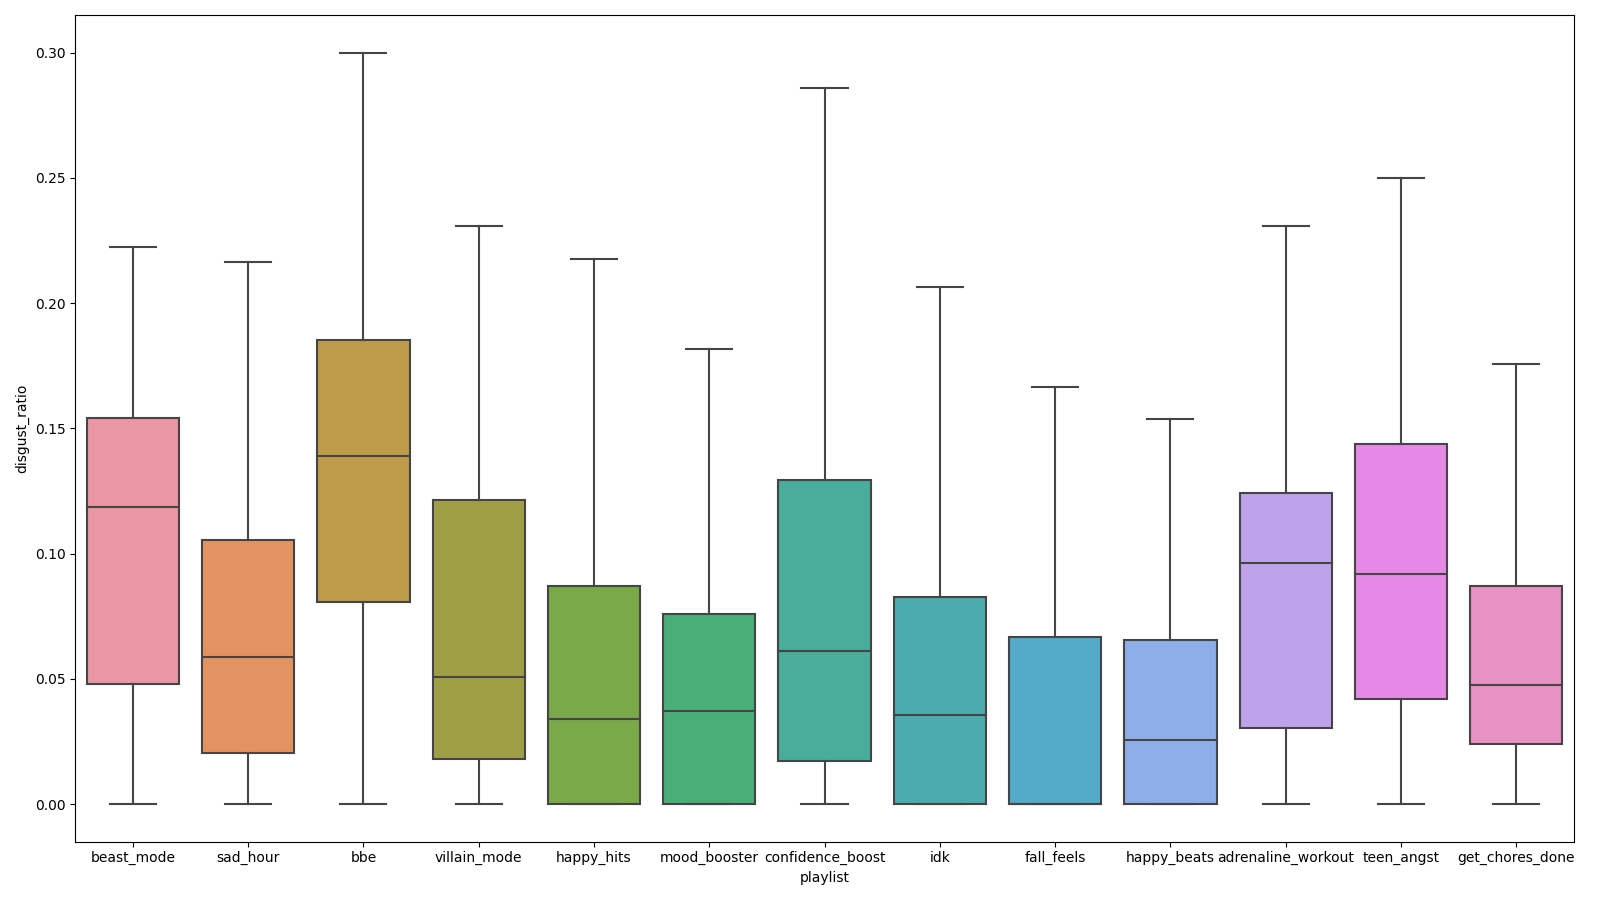
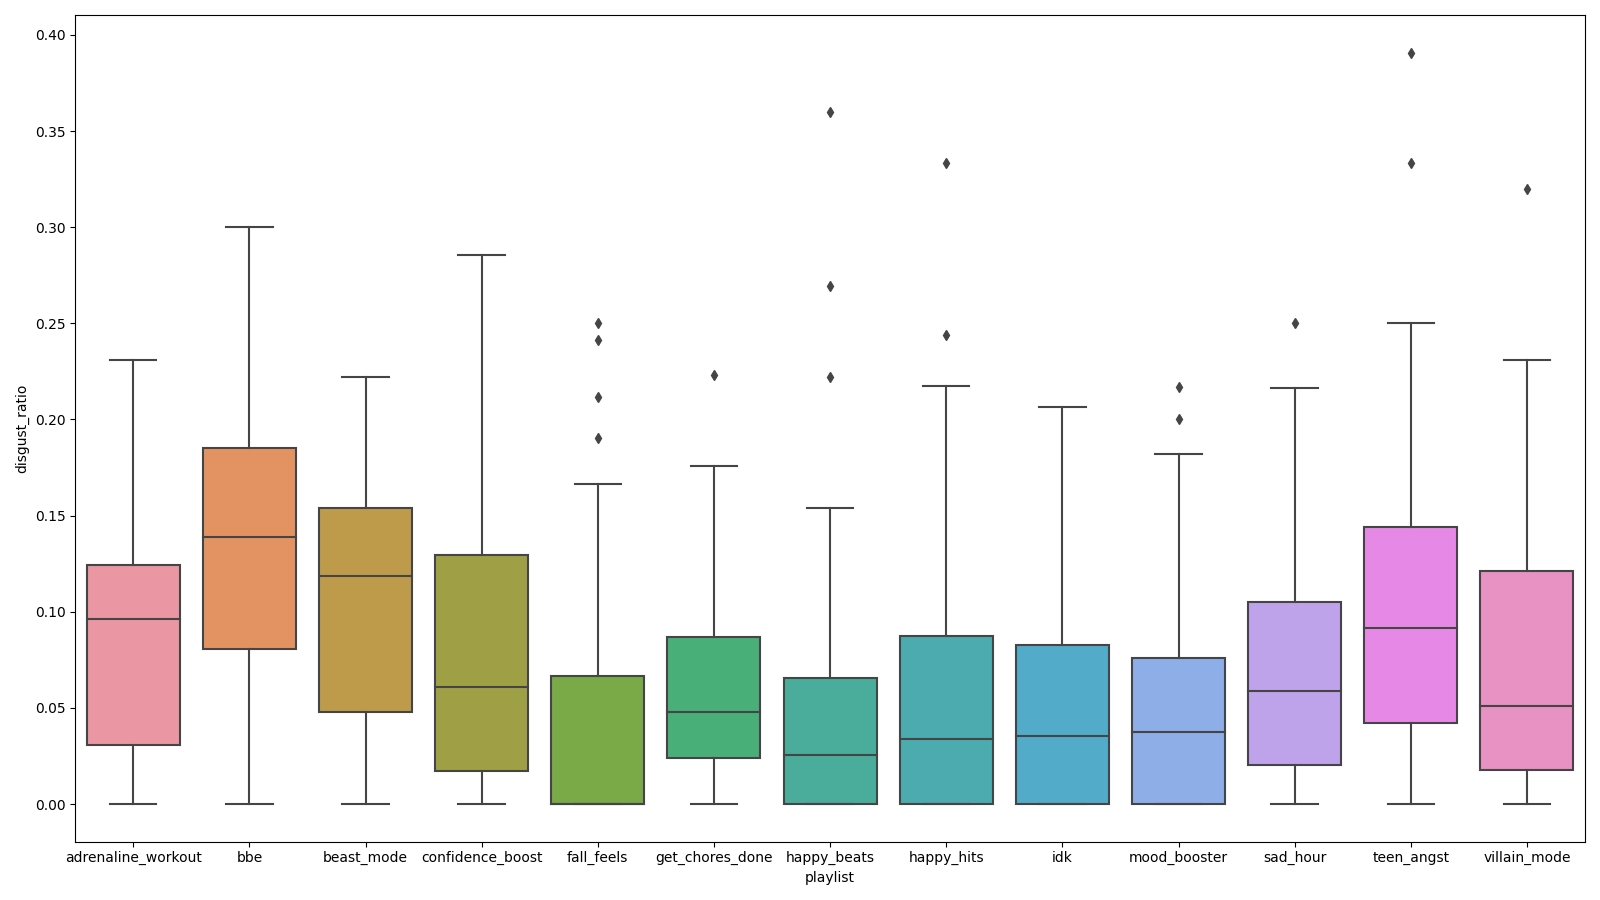
adjust plots a bit, kinda have a better direction where to take the project

diff --git a/744_information_retrieval/proj/lma/__init__.py b/744_information_retrieval/proj/lma/__init__.py
@@ -5,7 +5,7 @@ from .emotions import Emotions, EMOTION_KEYS, VAD_KEYS, SENTIMENT_KEYS
 from .files import IO
 from .playlist import Playlist
 from .playlistservice import PlaylistService
-from .plot import Scatter, Scatter3D, BoxPlot, Scatter2
+from .plot import Scatter, Scatter3D, BoxPlot
 from .text import Normalizer
 
 
@@ -101,10 +101,26 @@ class LyricsMoodAnalysis:
 
     def read_csv(self, gen_data: pathlib.Path):
 
-        df = DataFrame()
-        df.read_csv(gen_data)
-        print(df.df.describe().unstack())
-        df.df.describe().unstack().to_csv("lol.csv")
+        data = DataFrame()
+        data.read_csv(gen_data)
+        # data.create_sentiment_ratio_columns()
+        data.drop_duplicate_artists()
+        print(data.df["playlist"].unique())
+
+        for key in EMOTION_KEYS:
+            data.create_wheel_ratio_columns(key, "{0}")
+            print(f"{key}_ratio")
+            print(
+                data.df[["title", "playlist", f"{key}_ratio"]].loc[
+                    data.df[f"{key}_ratio"].idxmax()
+                ]
+            )
+            print(
+                data.df[["title", "playlist", f"{key}_ratio"]].loc[
+                    data.df[f"{key}_ratio"].idxmin()
+                ]
+            )
+            print()
 
     def generate_plots(self, gen_data: pathlib.Path, plot_dir: pathlib.Path):
 
@@ -132,6 +148,8 @@ class LyricsMoodAnalysis:
         data.create_sentiment_ratio_columns()
         bp.set_axes("sentiment", data.df)
         bp.save_fig(plot_dir / "sentiment.png")
+        print(data.df[data.df["sentiment"] < 0]["artist"].describe())
+        print(data.df[data.df["sentiment"] > 0]["artist"].describe())
 
         data.drop_duplicate_titles()
 
@@ -139,14 +157,17 @@ class LyricsMoodAnalysis:
         sc.set_axes(
             data.df["valence"],
             data.df["arousal"],
-            data.df["dominance"],
+            data.df["playlist"],
             data.df,
         )
         sc.save_fig(plot_dir / "s_va.png")
 
         sc3d = Scatter3D()
         sc3d.set_axes(
-            data.df["valence"], data.df["arousal"], data.df["dominance"]
+            data.df["valence"],
+            data.df["arousal"],
+            data.df["dominance"],
+            data.df["playlist"],
         )
         sc3d.save_fig(plot_dir / "s_vad.png")
 

diff --git a/744_information_retrieval/proj/lma/plot.py b/744_information_retrieval/proj/lma/plot.py
@@ -1,3 +1,4 @@
+from matplotlib.cm import viridis
 import matplotlib.pyplot as plt
 import seaborn as sns
 import numpy as np
@@ -7,8 +8,7 @@ import pandas as pd
 class Scatter:
     def __init__(self) -> None:
 
-        plt.figure(figsize=(16, 9))
-        self.ax = plt.figure().add_subplot()
+        self.ax = plt.figure(figsize=(16, 9)).add_subplot()
 
     def set_axes(self, x, y, z, df):
 
@@ -32,8 +32,7 @@ class Scatter:
 class Scatter2:
     def __init__(self) -> None:
 
-        plt.figure(figsize=(16, 9))
-        self.ax = plt.figure().add_subplot()
+        self.ax = plt.figure(figsize=(16, 9)).add_subplot()
 
     def set_axes(self, x, y, df):
 
@@ -57,10 +56,9 @@ class Scatter2:
 class Scatter3D:
     def __init__(self) -> None:
 
-        plt.figure(figsize=(16, 9))
-        self.ax = plt.figure().add_subplot(projection="3d")
+        self.ax = plt.figure(figsize=(16, 9)).add_subplot(projection="3d")
 
-    def set_axes(self, x, y, z):
+    def set_axes(self, x, y, z, c):
 
         self.ax.scatter(x, y, z, c=z)
 
@@ -96,7 +94,14 @@ class BoxPlot:
 
     def set_axes(self, y: str, df: pd.DataFrame):
 
-        sns.boxplot(x="playlist", y=y, data=df, orient="v", showfliers=False)
+        sns.boxplot(
+            x="playlist",
+            y=y,
+            data=df,
+            order=sorted(df["playlist"].unique()),
+            orient="v",
+            showfliers=True,
+        )
 
     def save_fig(self, filename):
         plt.tight_layout()

diff --git a/744_information_retrieval/proj/lma/dataframe.py b/744_information_retrieval/proj/lma/dataframe.py
@@ -38,7 +38,9 @@ class DataFrame:
     def create_sentiment_ratio_columns(self):
 
         self.df["sentiment"] = self.df.apply(
-            lambda row: (row["positive"] - row["negative"]) / row["s_n_words"],
+            lambda row: (
+                (row["positive"] - row["negative"]) / row["n_words"] * 2
+            ),
             axis=1,
         )
 
